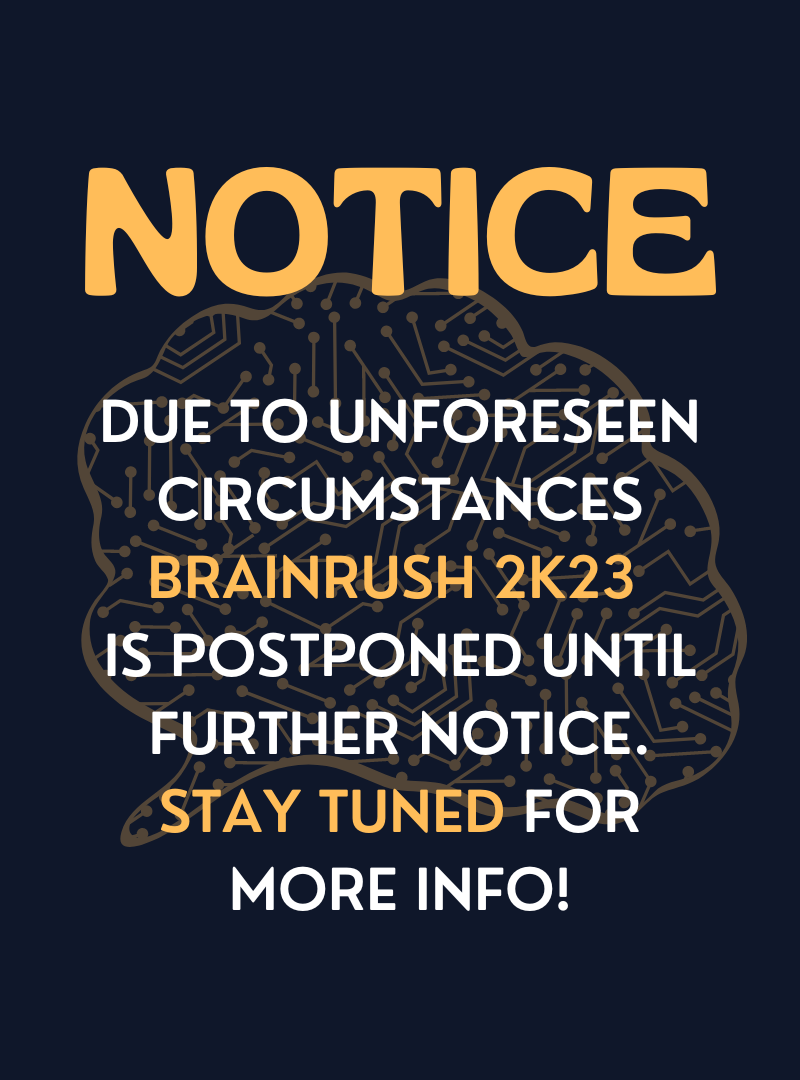
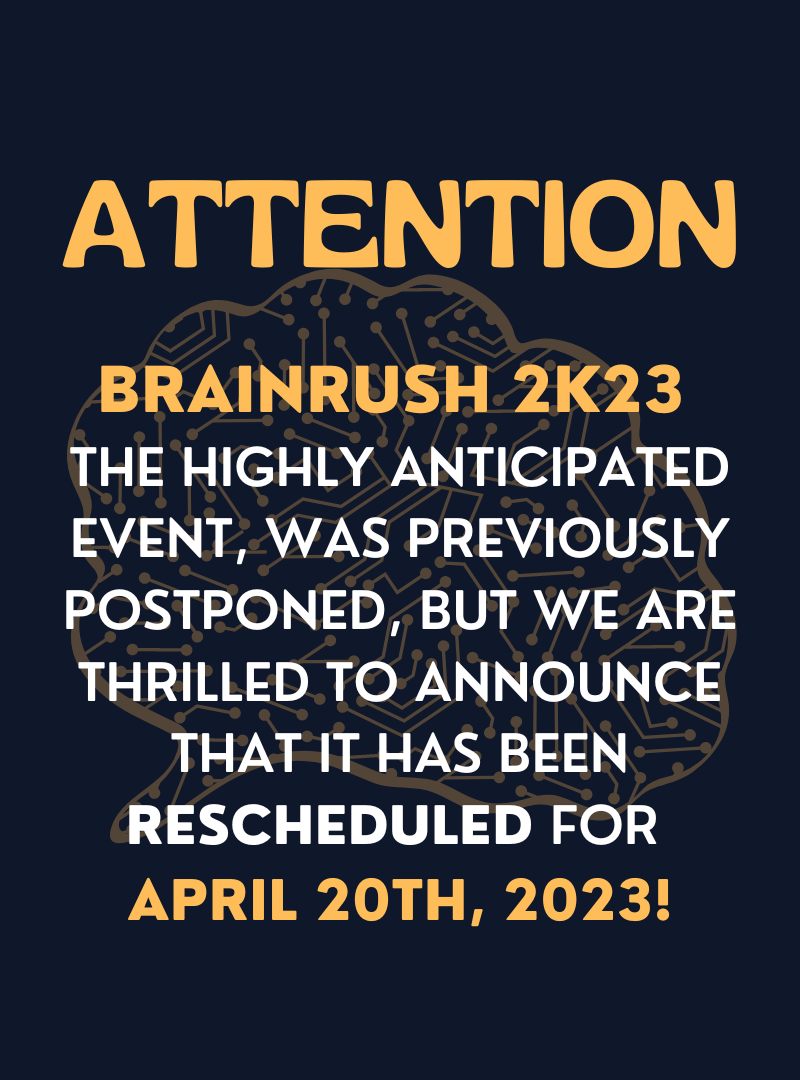
new date added

Changed region(s): [[0.0625, 0.1528, 0.9375, 0.8556]]

diff --git a/src/components/Navbar.js b/src/components/Navbar.js
@@ -34,10 +34,6 @@ const Navbar = () => {
             onClick={() =>
               document.getElementById("check-room").classList.remove("hidden")
             }
-            href={
-              "https://docs.google.com/forms/d/e/1FAIpQLSf6c6sfYiGuBZnkqBBv6puXNMc3Zmkwo38SML5p_3YISTbkaQ/viewform"
-            }
-            target="_blank"
           >
             <Buttons title={"CHECK ROOM"} />
           </button> */}

diff --git a/src/components/About.js b/src/components/About.js
@@ -624,7 +624,7 @@ function About() {
                   be truly enlightening, illuminating and loaded with adventure.
                 </p>
                 <h1 className="text-logoYellow font-bold sm:text-4xl text-2xl">
-                  Date: To be announced soon
+                  Date: 20th April 2023
                 </h1>
               </div>
             </div>
